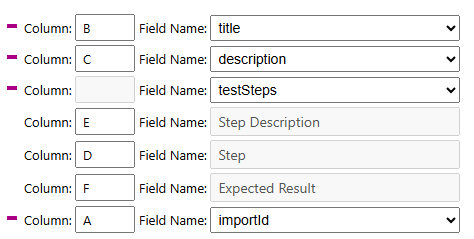
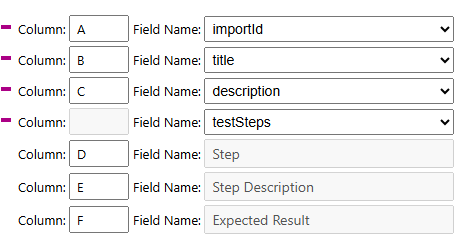
fix: wrong test steps order (#174)
Refs: #173

Changed region(s): [[0.0, 0.0586, 0.9978, 0.9958]]

diff --git a/src/main/resources/webapp/excel-importer-admin/js/modules/mappings.js b/src/main/resources/webapp/excel-importer-admin/js/modules/mappings.js
@@ -167,6 +167,7 @@ function updateAuxiliaryComponents(selectedField, mappingButton, uid) {
         columnInput.disabled = true;
         columnInput.value = "";
         const field = getField(selectedField);
+        let insertAfter = targetRow;
         for (const option of field.options) {
 
             const subRow = document.createElement('tr');
@@ -197,7 +198,8 @@ function updateAuxiliaryComponents(selectedField, mappingButton, uid) {
             fieldCell.appendChild(input);
             subRow.appendChild(fieldCell);
 
-            targetRow.after(subRow);
+            insertAfter.after(subRow);
+            insertAfter = subRow;
         }
     }
 }

diff --git a/src/test/java/ch/sbb/polarion/extension/excel_importer/service/ImportServiceTest.java b/src/test/java/ch/sbb/polarion/extension/excel_importer/service/ImportServiceTest.java
@@ -40,6 +40,7 @@ import java.util.ArrayList;
 import java.util.Arrays;
 import java.util.Collections;
 import java.util.HashMap;
+import java.util.LinkedHashSet;
 import java.util.List;
 import java.util.Map;
 import java.util.Set;
@@ -440,7 +441,7 @@ class ImportServiceTest {
         FieldMetadata titleField = FieldMetadata.builder().id("title").type(FieldType.STRING.getType()).build();
         // stepsField must have options matching the mapping keys so validation passes
         FieldMetadata stepsField = FieldMetadata.builder().id("testSteps").type(FieldType.STRING.getType())
-                .options(Set.of(new Option("step", "Step", null), new Option("expectedResult", "Expected Result", null)))
+                .options(new LinkedHashSet<>(List.of(new Option("step", "Step", null), new Option("expectedResult", "Expected Result", null))))
                 .build();
         when(polarionService.getWorkItemsFields("projectId", "requirement")).thenReturn(Set.of(titleField, stepsField));
 
@@ -490,7 +491,7 @@ class ImportServiceTest {
 
         FieldMetadata titleField = FieldMetadata.builder().id("title").type(FieldType.STRING.getType()).build();
         FieldMetadata stepsField = FieldMetadata.builder().id("testSteps").type(FieldType.STRING.getType())
-                .options(Set.of(new Option("step", "Step", null), new Option("expectedResult", "Expected Result", null)))
+                .options(new LinkedHashSet<>(List.of(new Option("step", "Step", null), new Option("expectedResult", "Expected Result", null))))
                 .build();
         when(polarionService.getWorkItemsFields("projectId", "requirement")).thenReturn(Set.of(titleField, stepsField));
 
@@ -567,7 +568,7 @@ class ImportServiceTest {
 
         // Field options require "step" and "expectedResult", but mapping only provides "step"
         FieldMetadata stepsField = FieldMetadata.builder().id("testSteps").type(FieldType.STRING.getType())
-                .options(Set.of(new Option("step", "Step", null), new Option("expectedResult", "Expected Result", null)))
+                .options(new LinkedHashSet<>(List.of(new Option("step", "Step", null), new Option("expectedResult", "Expected Result", null))))
                 .build();
         when(polarionService.getWorkItemsFields("projectId", "req")).thenReturn(Set.of(stepsField));
 
@@ -601,7 +602,7 @@ class ImportServiceTest {
 
         // Field options only have "step", but mapping provides "step" and "extra"
         FieldMetadata stepsField = FieldMetadata.builder().id("testSteps").type(FieldType.STRING.getType())
-                .options(Set.of(new Option("step", "Step", null)))
+                .options(new LinkedHashSet<>(List.of(new Option("step", "Step", null))))
                 .build();
         when(polarionService.getWorkItemsFields("projectId", "req")).thenReturn(Set.of(stepsField));
 

diff --git a/src/main/java/ch/sbb/polarion/extension/excel_importer/service/ImportService.java b/src/main/java/ch/sbb/polarion/extension/excel_importer/service/ImportService.java
@@ -31,7 +31,6 @@ import org.jetbrains.annotations.VisibleForTesting;
 import java.net.URI;
 import java.util.ArrayList;
 import java.util.HashMap;
-import java.util.HashSet;
 import java.util.List;
 import java.util.Map;
 import java.util.Objects;
@@ -179,11 +178,12 @@ public class ImportService {
             Map<String, Object> dataMap, IWorkItem workItem, Set<FieldMetadata> fieldMetadataSet) {
         Map<String, Object> structureMap = new HashMap<>();
 
-        List<String> keys = mappingValue.keySet().stream().toList();
         FieldMetadata fieldMetadata = fieldMetadataSet.stream().filter(f -> f.getId().equals(mappingKey)).findFirst().orElse(null);
-        if (fieldMetadata == null || !new HashSet<>(keys).equals(fieldMetadata.getOptions().stream().map(Option::getKey).collect(Collectors.toSet()))) {
+        if (fieldMetadata == null || !mappingValue.keySet().equals(fieldMetadata.getOptions().stream().map(Option::getKey).collect(Collectors.toSet()))) {
             throw new IllegalArgumentException("Test steps keys mismatch for the field '%s'. Check fields mapping.".formatted(mappingKey));
         }
+        // Use options order from fieldMetadata to preserve the correct column order
+        List<String> keys = fieldMetadata.getOptions().stream().map(Option::getKey).toList();
         structureMap.put(ITestSteps.KEY_KEYS, keys);
 
         List<Map<String, List<Text>>> steps = new ArrayList<>();

diff --git a/src/main/java/ch/sbb/polarion/extension/excel_importer/service/PolarionServiceExt.java b/src/main/java/ch/sbb/polarion/extension/excel_importer/service/PolarionServiceExt.java
@@ -23,6 +23,7 @@ import com.polarion.subterra.base.data.model.internal.PrimitiveType;
 import org.jetbrains.annotations.NotNull;
 
 import java.util.Collection;
+import java.util.LinkedHashSet;
 import java.util.List;
 import java.util.Set;
 import java.util.TreeSet;
@@ -30,7 +31,7 @@ import java.util.stream.Collectors;
 
 public class PolarionServiceExt extends ch.sbb.polarion.extension.generic.service.PolarionService {
 
-    private static final Set<Option> BOOLEAN_OPTIONS_MAPPING = Set.of(new Option("True", "true"), new Option("False", "false"));
+    private static final Set<Option> BOOLEAN_OPTIONS_MAPPING = new LinkedHashSet<>(List.of(new Option("True", "true"), new Option("False", "false")));
     private final ITestManagementService testManagementService = new TestManagementServiceAccessor().getTestingService();
 
     public PolarionServiceExt() {
@@ -64,7 +65,7 @@ public class PolarionServiceExt extends ch.sbb.polarion.extension.generic.servic
                 List<ITestStepKeyOpt> testStepsKeys = testManagementService.getTestStepsKeys(projectId, workItemType);
                 field.setOptions(testStepsKeys.stream()
                         .map(tsk -> new Option(tsk.getId(), tsk.getName(), null))
-                        .collect(Collectors.toSet()));
+                        .collect(Collectors.toCollection(LinkedHashSet::new)));
             }
         }
     }

diff --git a/USER_GUIDE.md b/USER_GUIDE.md
@@ -1,4 +1,5 @@
 * [Test Steps table import](#test-steps-table-import)
+* [Linked work items](#linked-work-items)
 * [Velocity functions](#velocity-functions)
 
 
@@ -10,6 +11,11 @@ It is possible to import test steps table. To do this, the file should have a sp
 The mapping configuration for the example above should look like this:
 
 ![Test Steps mapping example](docs/user_guide/img/test_steps_mapping_example.png)
+
+## Linked work items
+In order to link imported work items using 'linkedWorkItems' field the cell must contain a comma-separated list of work item IDs together with the optional link role and project ID (e.g. `link_role:project_id/WI_ID`) or using full link to the work item:
+
+![Linked work items example](docs/user_guide/img/links.png)
 
 ## Velocity functions
 
